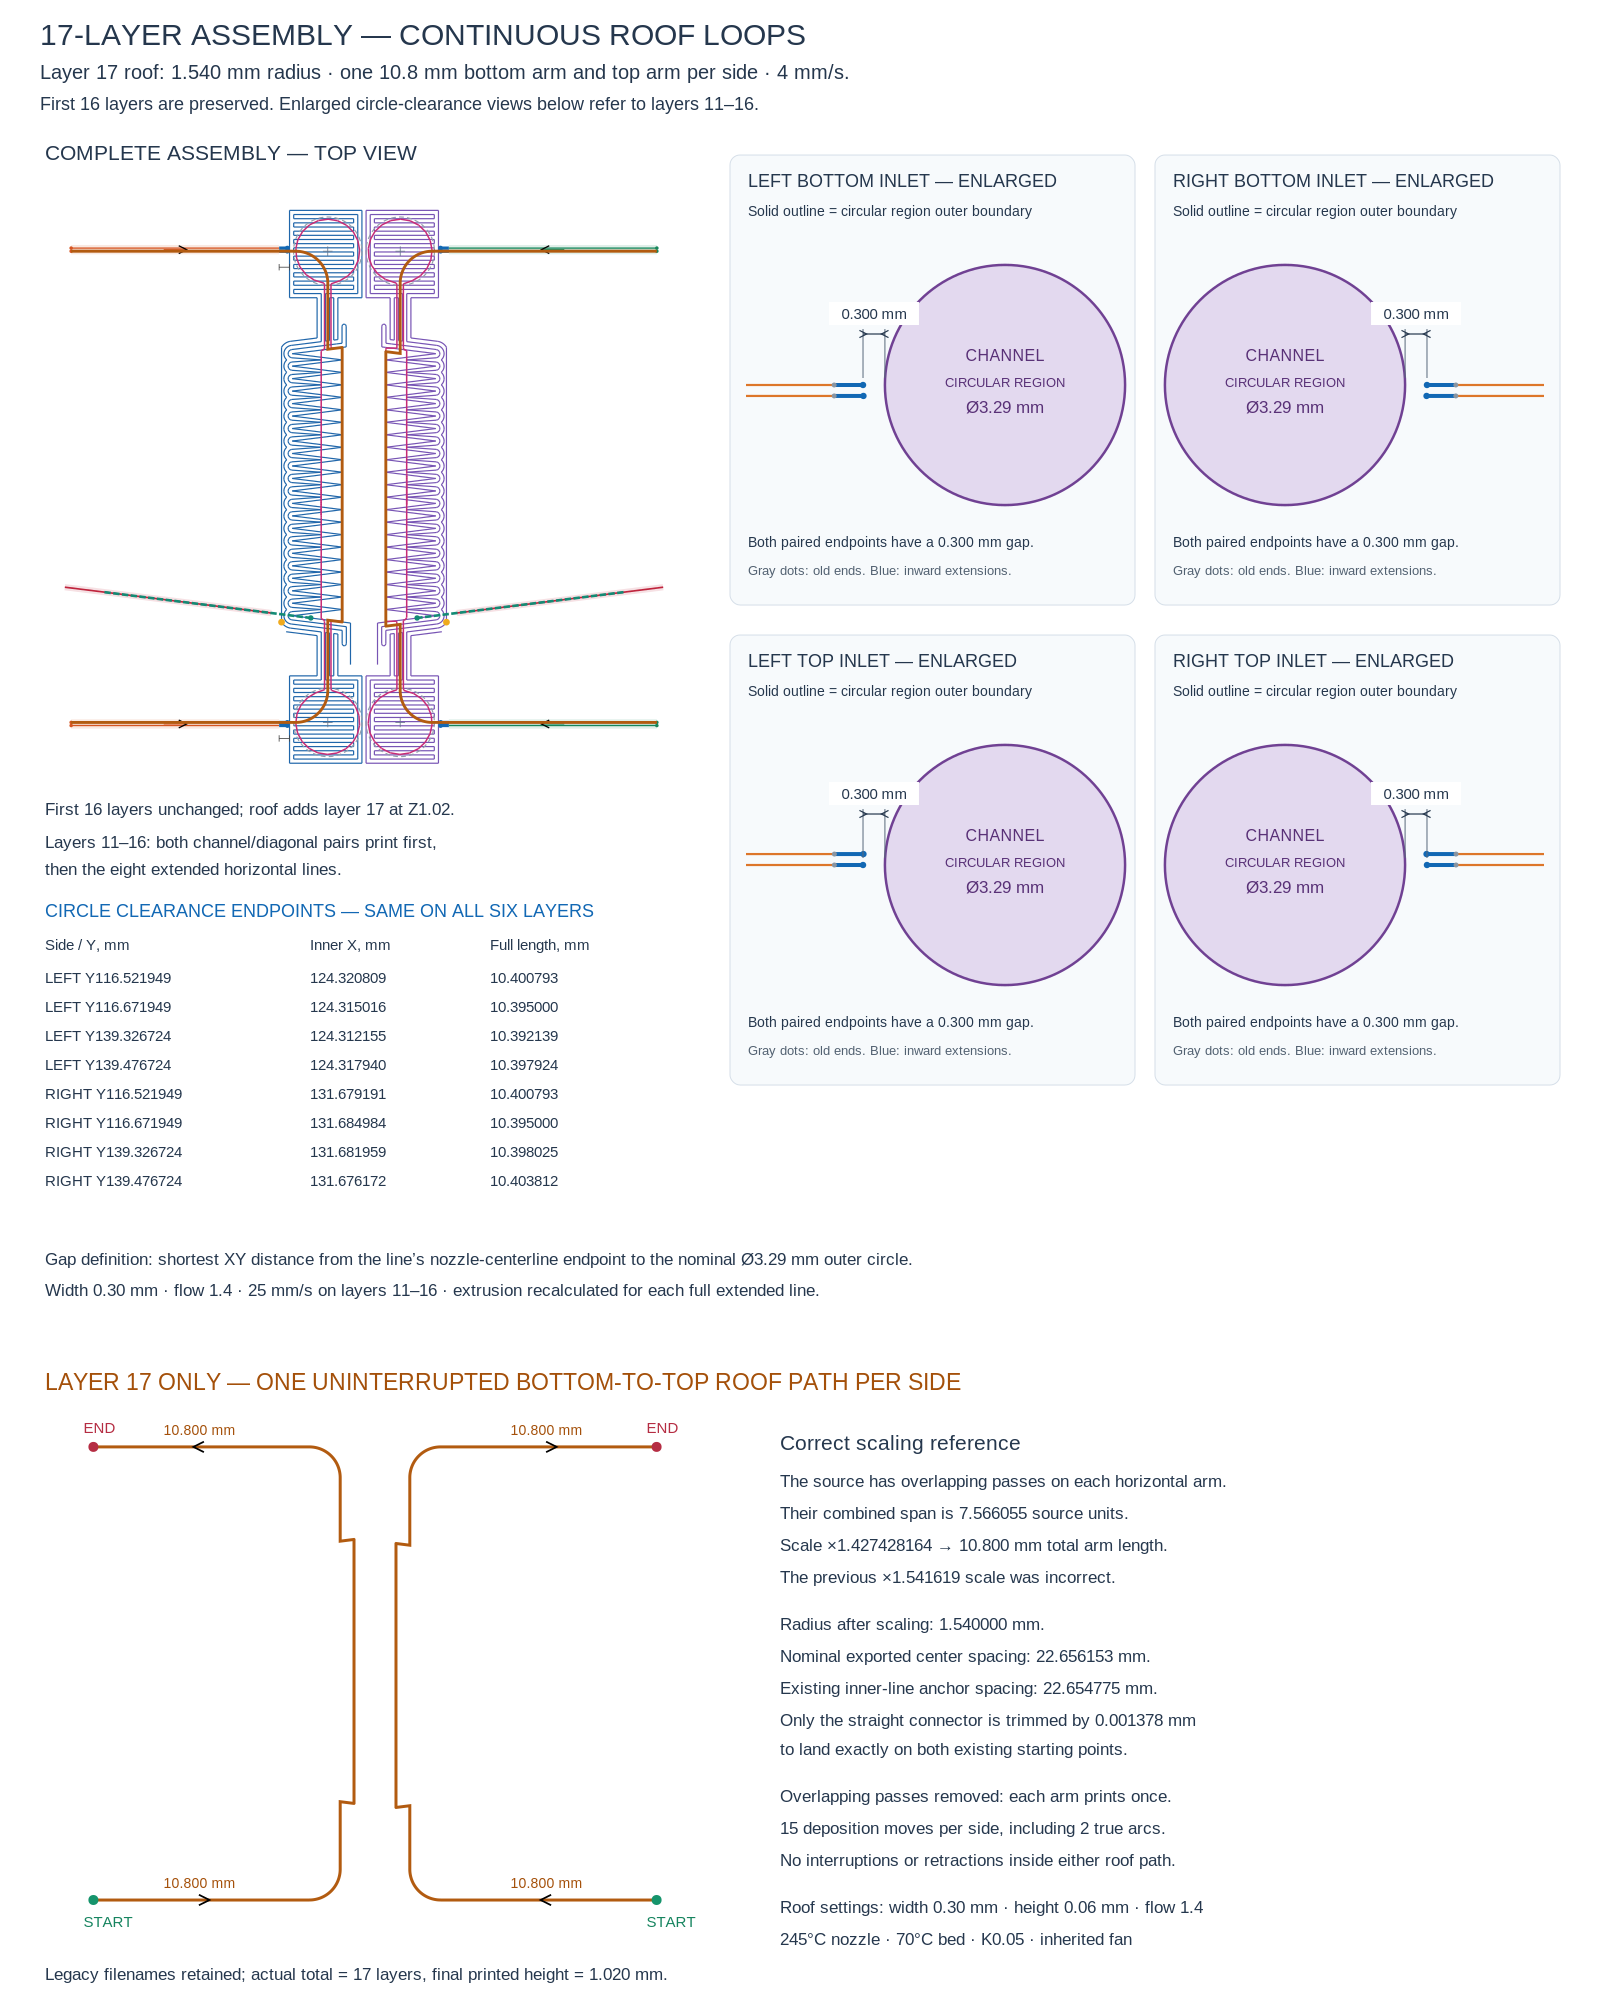
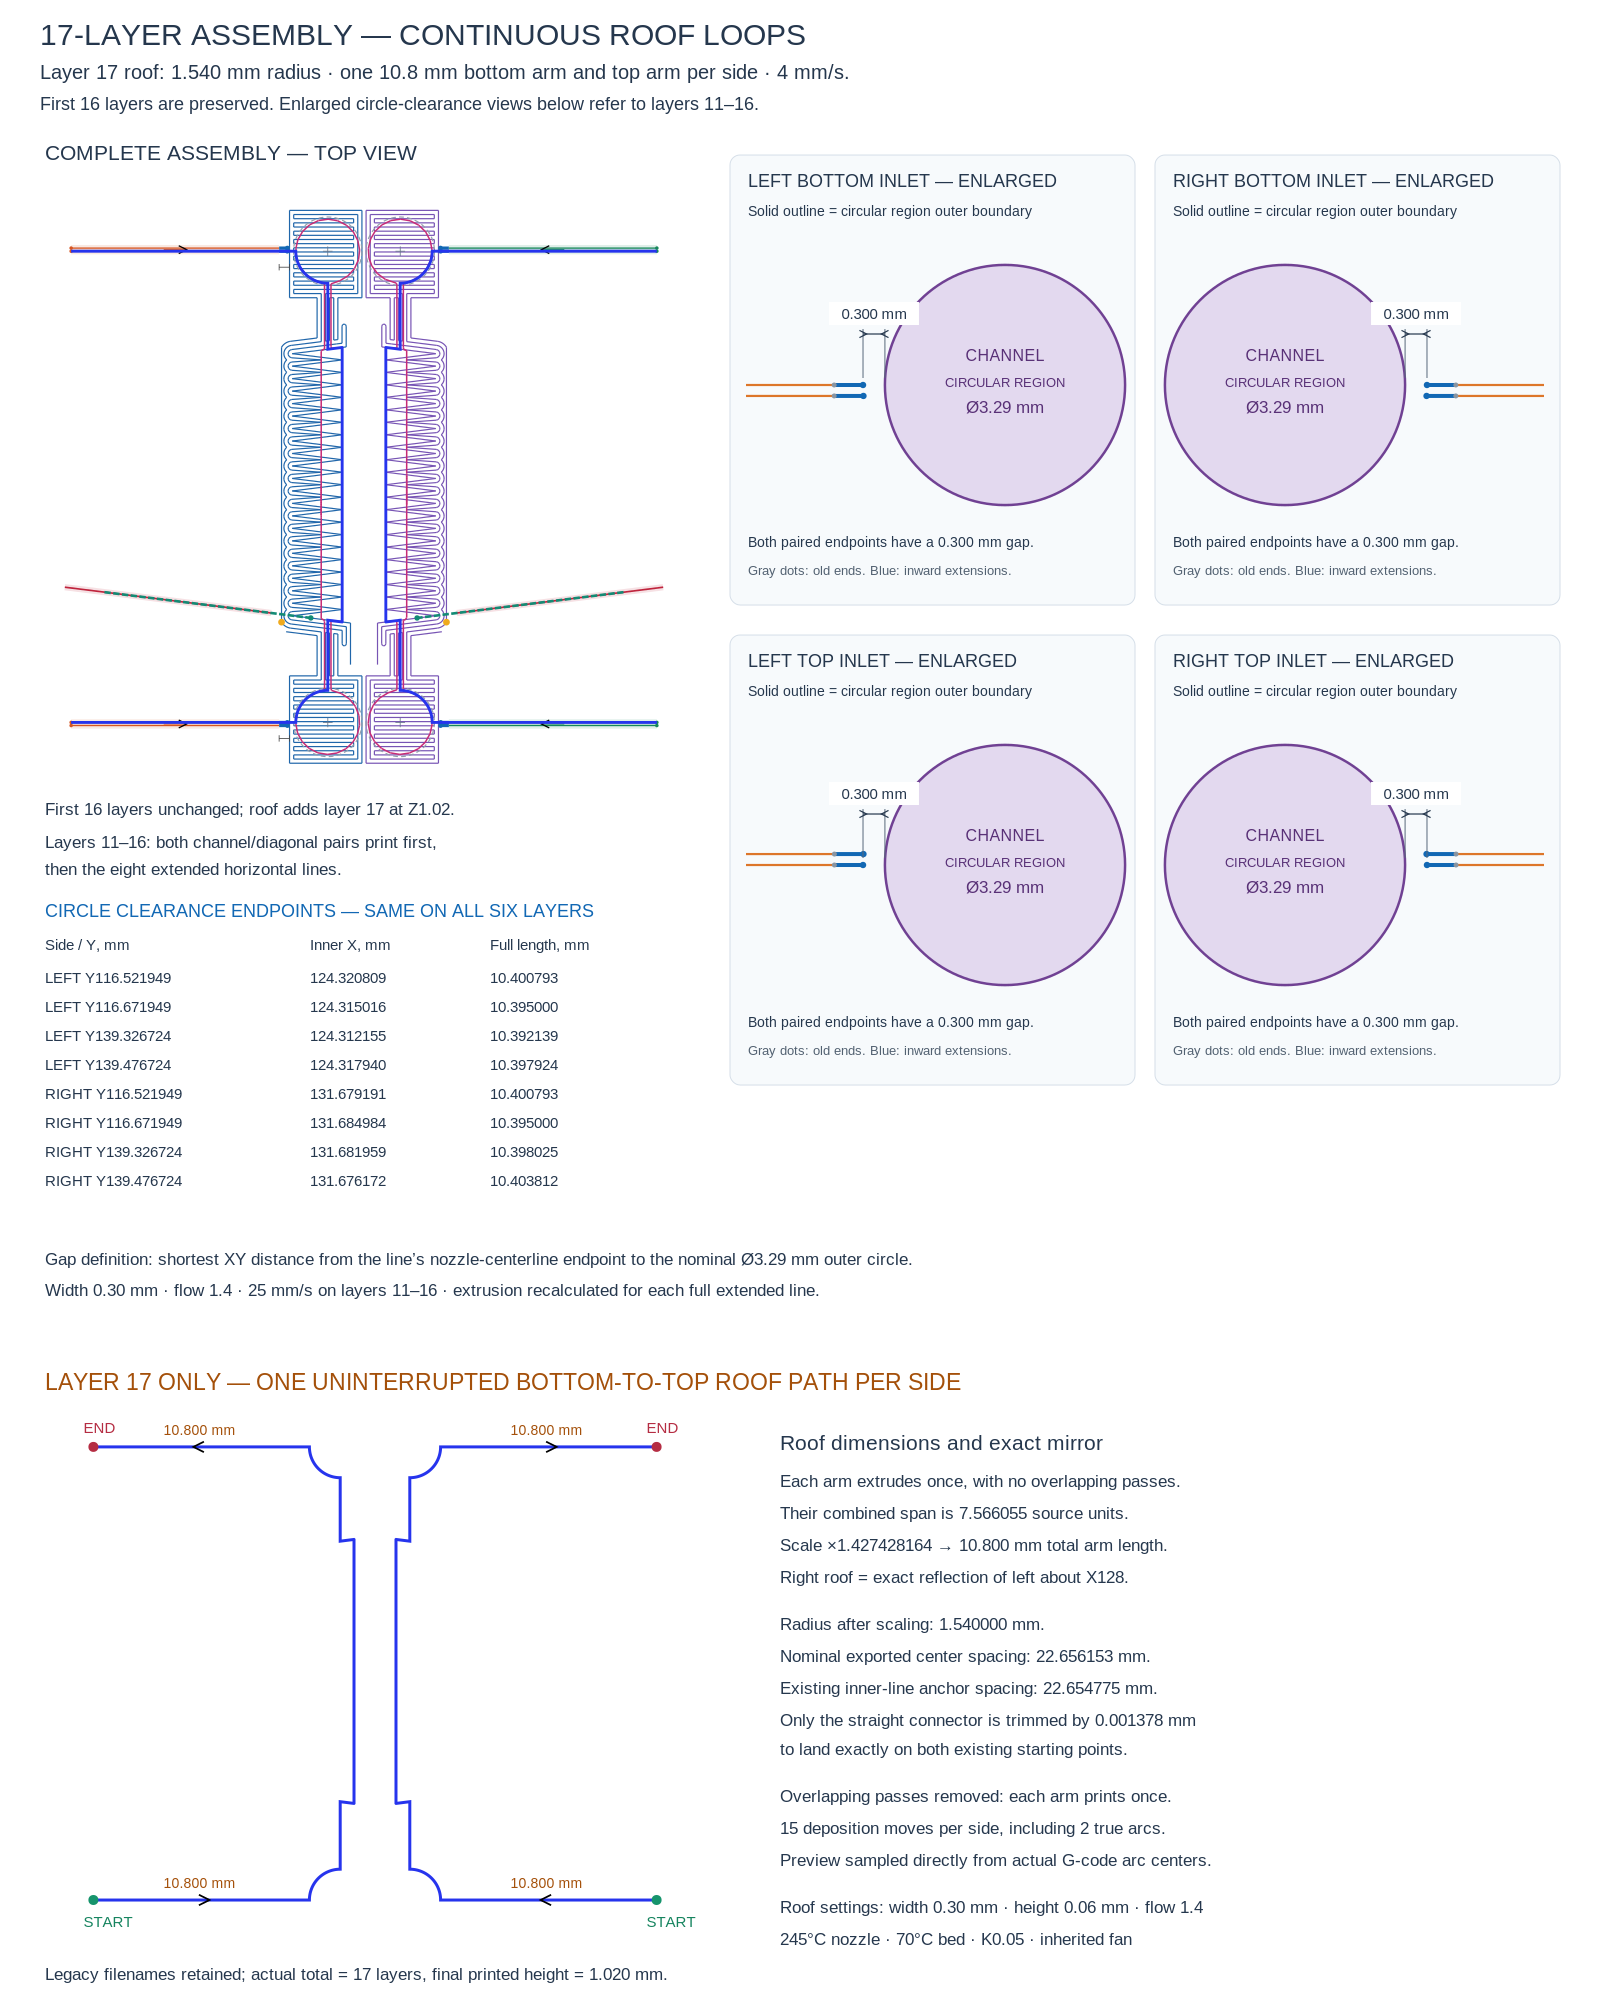
Mirror right roof exactly and render previews from actual G-code arc centers

diff --git a/KammInletH_10PlatformPlus6InletLayers_10mmHorizontalLines_16Layers.md b/KammInletH_10PlatformPlus6InletLayers_10mmHorizontalLines_16Layers.md
@@ -6,7 +6,7 @@ The existing filenames are retained. They are legacy names containing `16Layers`
 
 Each roof starts at its bottom outer horizontal endpoint, extrudes once along the bottom arm, follows the supplied curved/vertical/connecting path continuously upward, then follows the top arm outward to its endpoint. There are no travels, primes, retractions or pauses inside either roof path. The left roof completes before the right roof begins.
 
-The uploaded FullControl files contained overlapping extrusion passes on the horizontal arms. Those duplicate passes are removed. Their geometric union becomes one **10.800 mm horizontal extrusion move** on each bottom and top arm. Each complete side uses **15 deposition moves**, including **two true circular arcs**, instead of the source file's 934 sampled deposition moves. Original curved and connecting features are retained, including the supplied left/right differences.
+The uploaded FullControl files contained overlapping extrusion passes on the horizontal arms. Those duplicate passes are removed. Their geometric union becomes one **10.800 mm horizontal extrusion move** on each bottom and top arm. Each complete side uses **15 deposition moves**, including **two true circular arcs**, instead of the source file's 934 sampled deposition moves. The left curved and connecting features are retained. Per the latest instruction, the right roof is now an exact geometric reflection of the left roof about X128; the differing neck geometry in the uploaded RightRoofLoop file is not used.
 
 Roof endpoints touch the starting points of the inner horizontal lines in the existing channel layers:
 
@@ -57,8 +57,8 @@ The original startup, purge and adaptive leveling region are retained. The base 
 
 ## Diagram and checks
 
-The same SVG/PNG overlays the new roof on the complete assembly and adds a large roof-only panel with bottom START and top END markers, direction arrows and both 10.800 mm arm dimensions. Existing circle-clearance detail panels still describe layers 11–16, not the added roof.
+The same SVG/PNG overlays the new roof on the complete assembly and adds a large roof-only panel with bottom START and top END markers, direction arrows and both 10.800 mm arm dimensions. Roof previews are now generated directly from the actual G-code G1/G2/G3 motions and I/J arc centers. This corrects the previous SVG arc-sweep rendering error; the left roof G-code itself is unchanged. Right-roof X coordinates are reflected about X128, Y/E values are identical to the left, I offsets are negated, J offsets are unchanged, and G2/G3 handedness is reversed. Existing circle-clearance detail panels still describe layers 11–16, not the added roof.
 
-Independent replay verifies the complete sixteen-layer executable prefix is unchanged, there are exactly 17 layer-change records, and every one of the 30 new roof deposition moves has the expected XYZ, speed, width, E, acceleration, K, temperatures and inherited fans. Checks verify continuous paths, exact anchor endpoints, single 10.8 mm arms without duplicated passes, 1.54 mm arc radii, balanced primes/retractions, mesh coverage, one object scope and shutdown, and the rebased final parking heights.
+Independent replay verifies the complete sixteen-layer executable prefix is unchanged, there are exactly 17 layer-change records, and every one of the 30 new roof deposition moves has the expected XYZ, speed, width, E, acceleration, K, temperatures and inherited fans. Checks verify continuous paths, exact anchor endpoints, single 10.8 mm arms without duplicated passes, 1.54 mm arc radii, balanced primes/retractions, mesh coverage, one object scope and shutdown, and the rebased final parking heights. A separate comparison verifies the right roof is an exact mirror of the left and that the corrected preview traces come from the final G-code. The actual left arc trace matches the original uploaded left geometry within 0.000412 mm (the original chord-to-circle sagitta).
 
 These are static geometry/G-code checks. The roof has not been physically printed.
